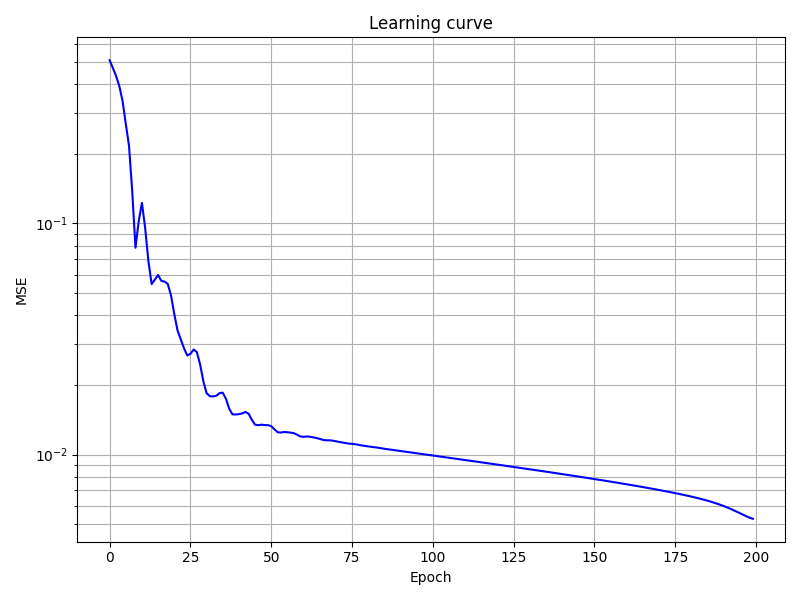
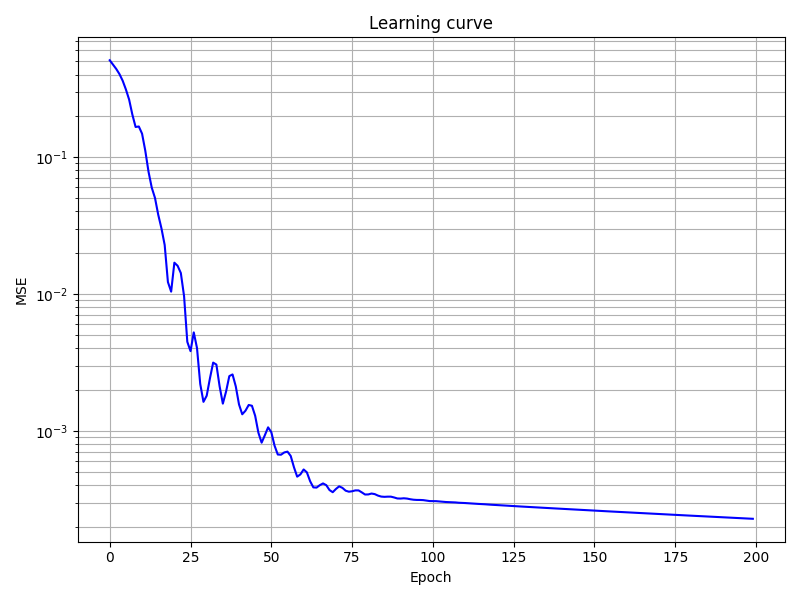
Use correct dimension order (batch_first), improving performance >10x

Changed region(s): [[0.0312, 0.06, 0.9688, 0.9], [0.0312, 0.75, 0.0625, 0.78]]

diff --git a/topics/pytorch/.notes_on_pytorch.md b/topics/pytorch/.notes_on_pytorch.md
@@ -268,7 +268,7 @@ Received batch x = tensor([6, 4], dtype=torch.int32), y = tensor([106, 104], dty
 - The training loop of 200 epochs takes > 3.5 minutes on a Intel(R) Core(TM) i7-1065G7 CPU @ 1.30GHz, and < 19 seconds on a NVIDIA GeForce MX250 GPU, a speed-up factor of > 11
 - The training curve is shown below
 - After training, a predictive sequence is rolled out (given a single initial data point), which is also shown below, and looks reasonably similar to a sinusoidal curve, which is encouraging
-- Note that replacing `torch.nn.LSTM` with `torch.nn.GRU` in the code below achieves a loss of 0.00196 in 15.9220s, compared to 0.00599 in 18.8894s with an LSTM
+- Note that replacing `torch.nn.LSTM` with `torch.nn.GRU` in the code below achieves a loss of 0.00015 in 16.0896s, compared to 0.00023 in 18.9291s with an LSTM
   - The GRU achieves a significantly better loss in less time with the same architecture, implying that in this case, the GRU is a better option than an LSTM
 
 ```python
@@ -283,7 +283,13 @@ t = torch.linspace(0, 1, seq_len, device=0).reshape(1, seq_len, 1)
 f = torch.linspace(1, 2, batch_size, device=0).reshape(batch_size, 1, 1)
 x = torch.sin(2 * np.pi * f * t)
 
-lstm = torch.nn.LSTM(input_size=1, hidden_size=256, num_layers=2, device=0)
+lstm = torch.nn.LSTM(
+    input_size=1,
+    hidden_size=256,
+    num_layers=2,
+    device=0,
+    batch_first=True,
+)
 linear = torch.nn.Linear(256, 1, device=0)
 optimiser = torch.optim.Adam(
     list(lstm.parameters()) +
